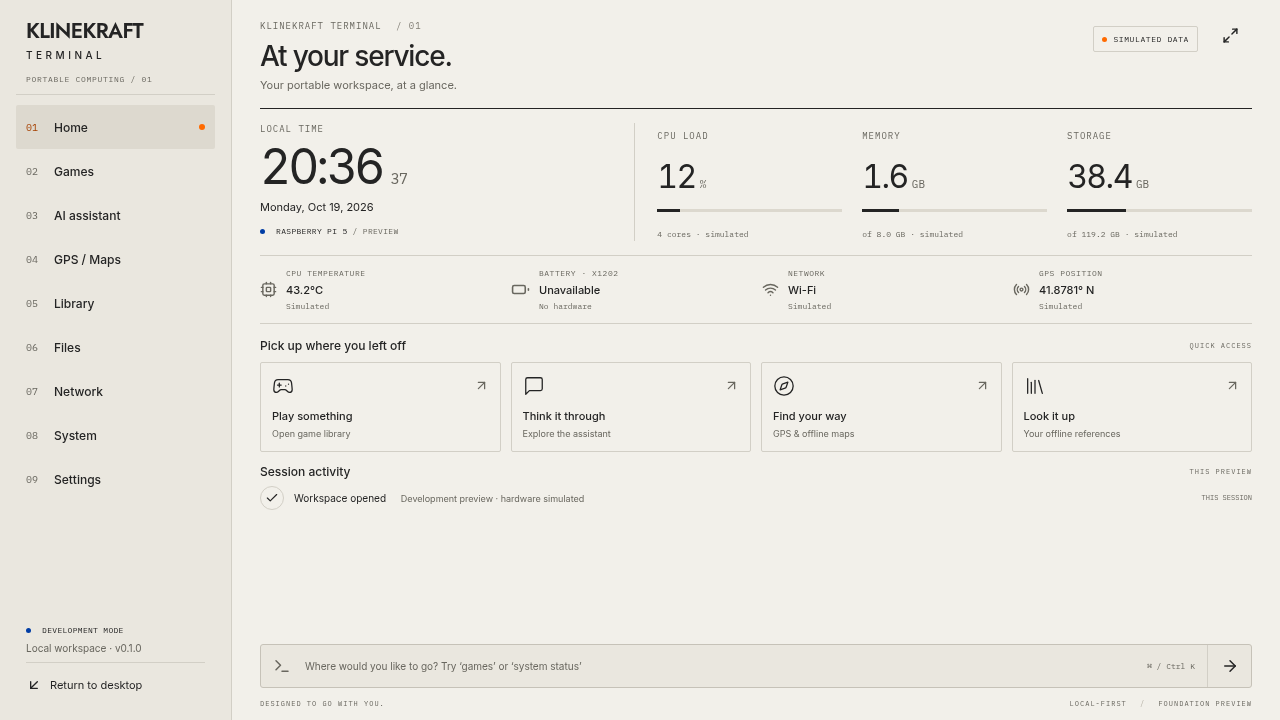
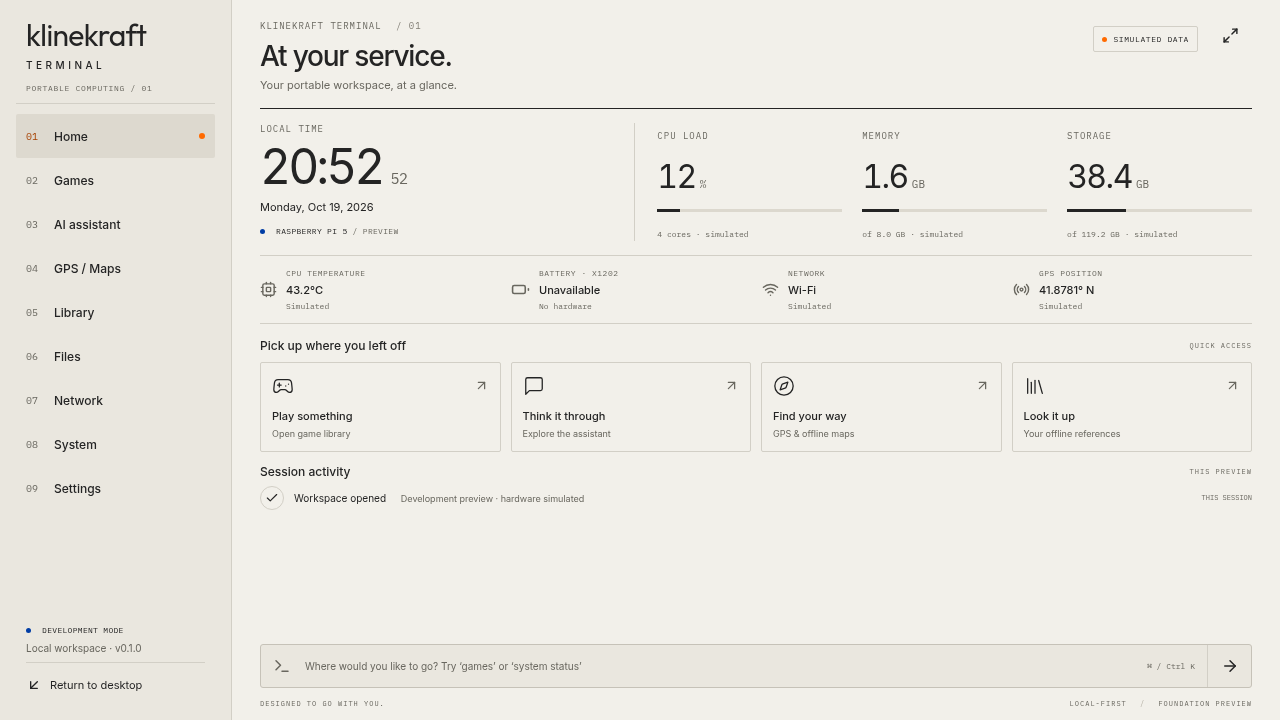
Use lowercase geometric Klinekraft wordmark

Changed region(s): [[0.0, 0.0306, 0.125, 0.7028], [0.25, 0.2139, 0.3125, 0.275]]

diff --git a/frontend/src/styles.css b/frontend/src/styles.css
@@ -74,9 +74,9 @@ button:disabled {
   flex-shrink: 0;
 }
 .wordmark {
-  font-family: Jost, var(--sans);
-  font-weight: 600;
-  font-size: 21px;
+  font-family: Outfit, var(--sans);
+  font-weight: 400;
+  font-size: 30px;
   line-height: 1.05;
   letter-spacing: -0.6px;
 }
@@ -752,7 +752,7 @@ kbd {
     padding: 25px 10px 12px;
   }
   .wordmark {
-    font-size: 18px;
+    font-size: 26px;
   }
   .brand {
     padding: 0 5px;

diff --git a/frontend/src/main.tsx b/frontend/src/main.tsx
@@ -4,7 +4,7 @@ import "@fontsource/inter/latin-400.css";
 import "@fontsource/inter/latin-500.css";
 import "@fontsource/inter/latin-600.css";
 import "@fontsource/ibm-plex-mono/latin-400.css";
-import "@fontsource/jost/latin-600.css";
+import "@fontsource/outfit/latin-400.css";
 import App from "./App";
 import "./styles.css";
 ReactDOM.createRoot(document.getElementById("root")!).render(

diff --git a/frontend/src/components/Brand.tsx b/frontend/src/components/Brand.tsx
@@ -8,7 +8,7 @@ export function KlinekraftLogo() {
 export function KlinekraftWordmark() {
   return (
     <div className="wordmark">
-      KLINEKRAFT<span>TERMINAL</span>
+      klinekraft<span>TERMINAL</span>
     </div>
   );
 }

diff --git a/docs/DESIGN_SYSTEM.md b/docs/DESIGN_SYSTEM.md
@@ -12,7 +12,7 @@ The visual direction follows Rams/Braun instrumentation and Swiss typography: wa
 | `--blue` | `#003DA5` | Focus, information |
 | `--orange` | `#FF6A00` | Active navigation and preview indicator |
 
-Tokens live in `frontend/src/styles.css`. Orange is an indicator rather than small body text. Selection also has a filled background and `aria-current`, so color is not the only cue. Focus uses a visible blue outline. Primary font: Inter; technical labels: IBM Plex Mono; wordmark: Jost. Fonts ship locally through Fontsource (SIL Open Font License); no Google Fonts request is required.
+Tokens live in `frontend/src/styles.css`. Orange is an indicator rather than small body text. Selection also has a filled background and `aria-current`, so color is not the only cue. Focus uses a visible blue outline. Primary font: Inter; technical labels: IBM Plex Mono; wordmark: Outfit Regular, lowercase, following the supplied geometric sans-serif reference. This is a visual match in direction, not an identification of the reference font. Fonts ship locally through Fontsource (SIL Open Font License); no Google Fonts request is required.
 
 Layout starts with a 204px sidebar at 1024×600. Dashboard columns use `minmax(0,1fr)` to prevent overflow. Large screens add whitespace and typography size, rather than stretching a bitmap. Below 850px, metrics and quick access reflow; smaller phone layouts are outside the primary acceptance target. Touch controls are at least 44px high. Navigation is native buttons; keyboard focus, Cmd/Ctrl+K and Escape are supported. Motion is limited to hover transitions and respects reduced-motion preferences.
 

diff --git a/docs/THIRD_PARTY.md b/docs/THIRD_PARTY.md
@@ -1,5 +1,5 @@
 # Third-party dependencies and research
 
-Runtime UI: React/ReactDOM (MIT), Lucide (ISC), Fontsource-packaged Inter/Jost/IBM Plex Mono fonts (SIL OFL; retain bundled license files). Build tools: Vite (MIT), TypeScript (Apache-2.0), Sharp (Apache-2.0), Playwright (Apache-2.0). Python scaffold: FastAPI (MIT), Pydantic (MIT), Uvicorn (BSD-3-Clause). Resolved JavaScript versions are in package-lock.json. Python direct requirements are bounded in pyproject.toml; backend/requirements-dev.lock records the verified environment.
+Runtime UI: React/ReactDOM (MIT), Lucide (ISC), Fontsource-packaged Inter/Outfit/IBM Plex Mono fonts (SIL OFL; retain bundled license files). Build tools: Vite (MIT), TypeScript (Apache-2.0), Sharp (Apache-2.0), Playwright (Apache-2.0). Python scaffold: FastAPI (MIT), Pydantic (MIT), Uvicorn (BSD-3-Clause). Resolved JavaScript versions are in package-lock.json. Python direct requirements are bounded in pyproject.toml; backend/requirements-dev.lock records the verified environment.
 
 Research does not constitute code reuse. RetroArch and Kiwix are planned separate executable/service integrations; RomM and Cockpit are comparison references only. No GPL/AGPL application code or unlicensed Geekworm code has been copied. The user's brand mark is not relicensed as third-party open-source content. A project-wide distribution license remains the owner's decision.
